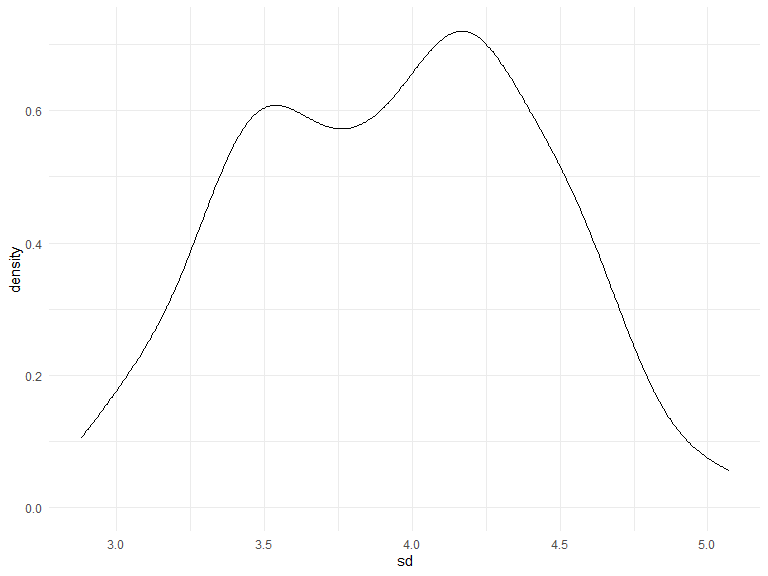
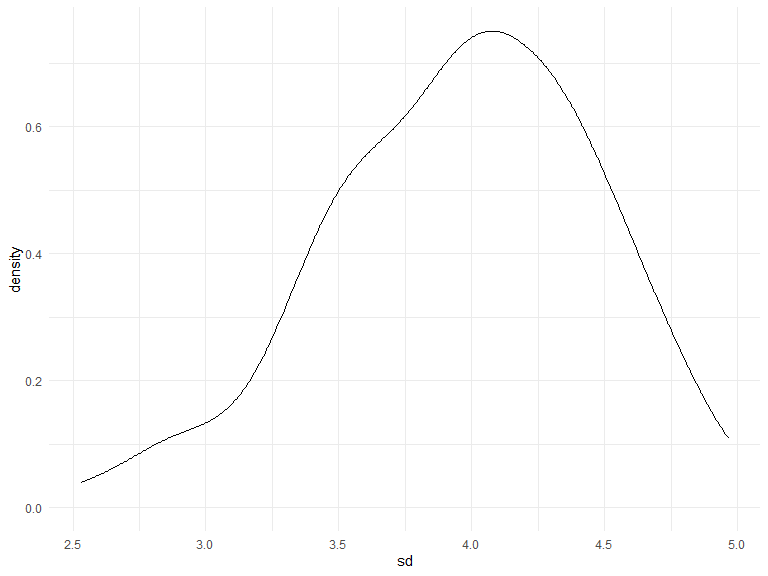
simulation

diff --git a/Simulation.md b/Simulation.md
@@ -31,7 +31,7 @@ sim_mean_sd(30)
     ## # A tibble: 1 × 2
     ##    mean    sd
     ##   <dbl> <dbl>
-    ## 1  3.01  4.42
+    ## 1  3.33  3.70
 
 ## Let’s simulate a lot.
 
@@ -50,16 +50,16 @@ bind_rows(output)
     ## # A tibble: 100 × 2
     ##     mean    sd
     ##    <dbl> <dbl>
-    ##  1  3.24  3.75
-    ##  2  3.77  3.80
-    ##  3  3.90  3.80
-    ##  4  3.57  4.67
-    ##  5  3.13  3.27
-    ##  6  3.57  3.65
-    ##  7  3.31  4.27
-    ##  8  3.65  3.92
-    ##  9  1.89  3.62
-    ## 10  3.22  3.79
+    ##  1  3.53  3.18
+    ##  2  3.44  3.84
+    ##  3  3.45  3.53
+    ##  4  1.68  3.69
+    ##  5  3.95  4.22
+    ##  6  3.27  4.34
+    ##  7  2.05  4.05
+    ##  8  3.10  3.72
+    ##  9  3.55  4.11
+    ## 10  3.87  3.79
     ## # … with 90 more rows
     ## # ℹ Use `print(n = ...)` to see more rows
 
@@ -91,7 +91,7 @@ sim_results %>%
     ## # A tibble: 1 × 2
     ##   avg_samp_mean sd_samp_mean
     ##           <dbl>        <dbl>
-    ## 1          3.08        0.680
+    ## 1          2.98        0.756
 
 ``` r
 sim_results %>% 
@@ -99,3 +99,66 @@ sim_results %>%
 ```
 
 <img src="Simulation_files/figure-gfm/unnamed-chunk-5-2.png" width="90%" />
+
+## Let’s try other sample sizes
+
+``` r
+n_list =
+  list(
+    "n = 30" = 30,
+    "n = 60" = 60,
+    "n = 120" = 120,
+    "n = 240" = 240
+  )
+
+output = vector("list", length = 4)
+
+for (i in 1:4){
+
+output[[i]] = rerun(100, sim_mean_sd(samp_size = n_list[[1]])) %>% bind_rows()
+}
+```
+
+``` r
+sim_results = 
+tibble(
+  sample_size = c(30,60,120,240)
+) %>% 
+  mutate(
+    output_lists = map(.x = sample_size, ~rerun(100, sim_mean_sd(.x))),
+    estimate_df = map(output_lists, bind_rows)
+  ) %>% 
+  select(-output_lists) %>% 
+  unnest(estimate_df)
+```
+
+Do some data frame things.
+
+``` r
+sim_results %>% 
+  mutate(
+    sample_size = str_c("n = ", sample_size),
+    sample_size = fct_inorder(sample_size)
+  ) %>% 
+  ggplot(aes(x = sample_size, y = mean)) +
+  geom_violin()
+```
+
+<img src="Simulation_files/figure-gfm/unnamed-chunk-8-1.png" width="90%" />
+
+``` r
+sim_results %>% 
+  group_by(sample_size) %>% 
+  summarize(
+    avg_samp_mean = mean(mean),
+    sd_samp_mean = sd(mean)
+  )
+```
+
+    ## # A tibble: 4 × 3
+    ##   sample_size avg_samp_mean sd_samp_mean
+    ##         <dbl>         <dbl>        <dbl>
+    ## 1          30          3.05        0.738
+    ## 2          60          3.02        0.511
+    ## 3         120          2.98        0.387
+    ## 4         240          2.97        0.259
